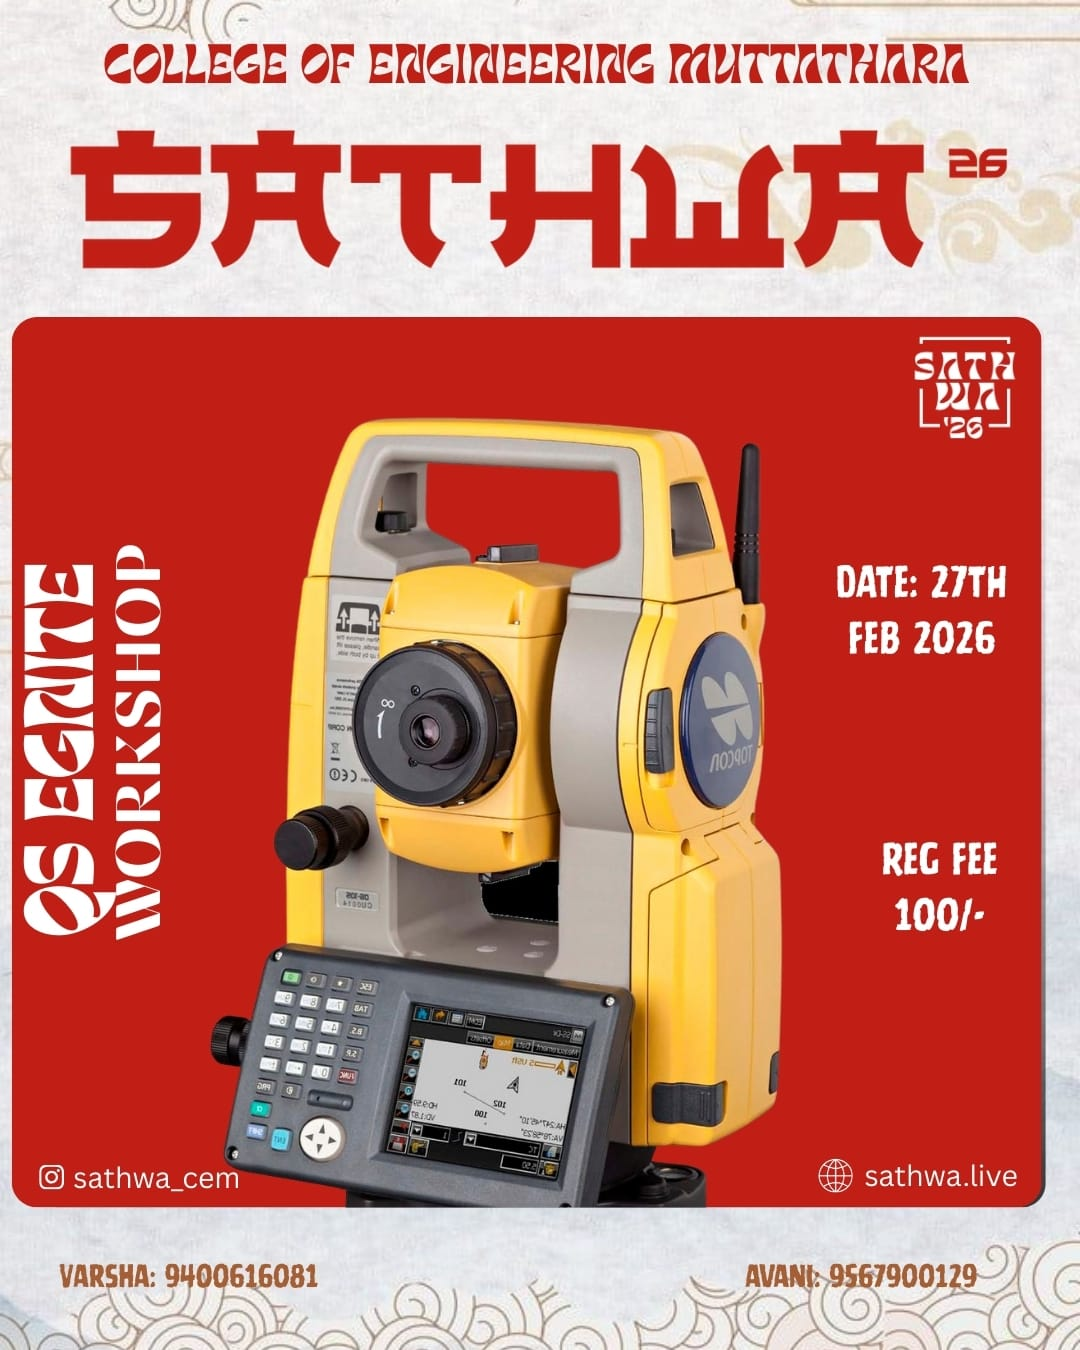
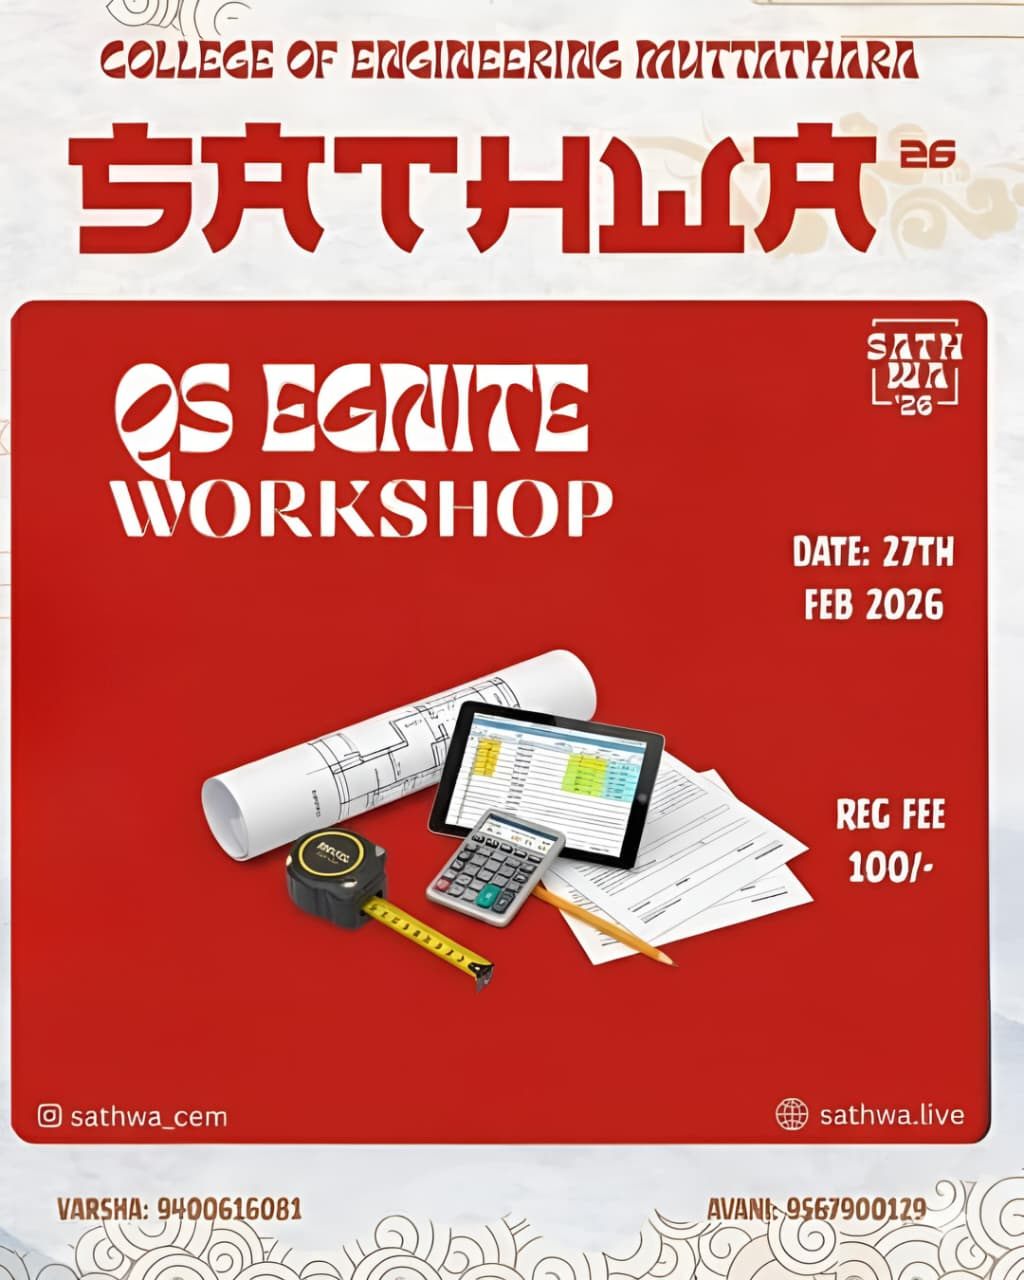
feat: update event name from "Cyber Launchpad" to "HackSim" and update workshop image

diff --git a/data/event.js b/data/event.js
@@ -23,7 +23,7 @@ export const event = [
     details: false,
   },
   {
-    name: "Cyber Launchpad",
+    name: "HackSim",
     categoryId: 11,
     searchKey: "cyber-launchpad",
     type: "talk-session",
